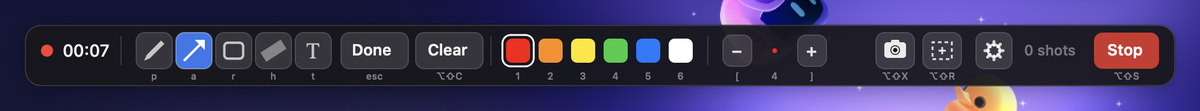
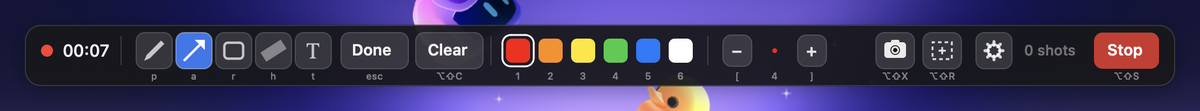
Say the thing the note is complaining about
The note read 'placeholder is left aligned', which states a fact and
leaves the reader to work out that it is the complaint. It says the text
is not centred instead. The shots are taken with a fresh palette anchor
now, so they show where the row opens for somebody who has just installed
this rather than where it was last dragged on the machine that took them.

diff --git a/overlay/Overlay+Probes.swift b/overlay/Overlay+Probes.swift
@@ -426,7 +426,7 @@ extension Overlay {
       tool = .text
       colorIndex = 0
       beginStroke(at: at(0.281, 0.286), screen: 0)
-      if let index = editing { shapes[index].text = "placeholder is left aligned" }
+      if let index = editing { shapes[index].text = "this text is not centred" }
       commitText()
 
       tool = .arrow
